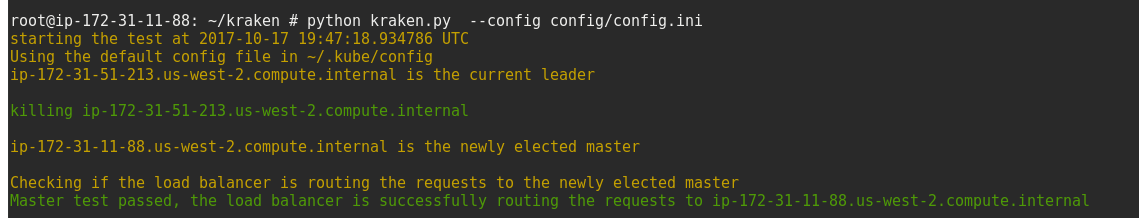
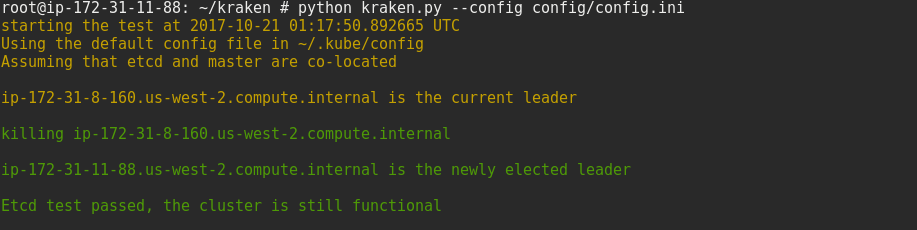
Add sample runs for etcd failure, master_failure

Changed region(s): [[0.0, 0.0, 0.9771, 1.0]]

diff --git a/kraken.py b/kraken.py
@@ -72,8 +72,8 @@ def check_master(picked_node, master_label, label):
     for data in ret.items:
         master_nodes.append(data.metadata.name)
     if picked_node in master_nodes:
-        node = get_random_node(label)
-        check_master(node, master_label, label)
+        picked_node = get_random_node(label)
+        check_master(picked_node, master_label, label)
     return picked_node
 
 def get_random_node(label):
@@ -150,7 +150,8 @@ def etcd_test(label, master_label):
     leader_node = get_leader(master_label, "undefined")
     print (Fore.YELLOW + '%s is the current leader\n') %(leader_node)
     print (Fore.GREEN + 'killing %s\n') %(leader_node)
-    cmd = "pkill etcd"
+    #cmd = "pkill etcd"
+    cmd = "systemctl stop etcd"
     subprocess.Popen(["ssh", "%s" % leader_node, cmd],
                        shell=False,
                        stdout=subprocess.PIPE,
@@ -167,7 +168,7 @@ def etcd_test(label, master_label):
     except:
         print (Fore.GREEN + 'requests not processed\n')
         sys.exit(1)
-    print (Fore.GREEN + 'Etcd test passed, the cluster is still functional%s\n') %(new_leader)
+    print (Fore.GREEN + 'Etcd test passed, the cluster is still functional')
 
 def node_crash(label, master_label):
     # leave master node out
@@ -180,7 +181,7 @@ def node_crash(label, master_label):
     print (Fore.YELLOW + 'There are %s pods running on the cluster before deleting the node and %s pods running on the node picked to be deleted from the cluster\n') %(pod_count_before, pod_count_node)
     # delete a node
     print (Fore.GREEN + 'crashing %s\n') %(random_node)
-    cmd = "echo "c" > /proc/sysrq-trigger"
+    cmd = "echo c > /proc/sysrq-trigger"
     subprocess.Popen(["ssh", "%s" % random_node, cmd],
                        shell=False,
                        stdout=subprocess.PIPE,
@@ -192,7 +193,7 @@ def node_crash(label, master_label):
     # check if the pods have been rescheduled
     while True:
         print (Fore.YELLOW + 'Checking if the pods have been rescheduled\n')
-        print (Fore.YELLOW + 'It is expected to take more than 5 min for the pods to get rescheduled during a node crash, node controller waits for 5 min before terminating the pods that are bound to the unavailbel node') 
+        print (Fore.YELLOW + 'It is expected to take more than 5 min for the pods to get rescheduled during a node crash, node controller waits for 5 min before terminating the pods that are bound to the unavailable node\n') 
         time.sleep(sleep_counter)
         status = check_count(pod_count_before, pod_count_after)
         if status:
@@ -207,7 +208,7 @@ def node_crash(label, master_label):
 
 def master_test(label, master_label):
     # pick random node to kill
-    master_node = get_random(master_label)
+    master_node = get_random_node(master_label)
     print (Fore.GREEN + 'killing %s\n') %(master_node)
     cmd = "systemctl stop atomic-openshift-master-controllers.service"
     subprocess.Popen(["ssh", "%s" % master_node, cmd],
@@ -215,13 +216,13 @@ def master_test(label, master_label):
                        stdout=subprocess.PIPE,
                        stderr=subprocess.PIPE)
     ## check if the load balancer is routing the requests to the newly elected master
-    print (Fore.YELLOW + 'Checking if the load balancer is routing the requests to the newly elected master')
+    print (Fore.YELLOW + 'Checking if the load balancer is routing the requests to the newly elected master\n')
     try:
         get_random_node(master_label)
     except:
         print (Fore.RED + 'Failed to ping apiserver, looks like the openshift cluster has not recovered after deleting the master\n')
         sys.exit(1)
-    print (Fore.GREEN + 'Master test passed, the load balancer is successfully routing the requests to %s\n') %(new_leader)
+    print (Fore.GREEN + 'Master test passed, the load balancer is successfully routing the requests\n')
 
 def main(cfg):
     #parse config
@@ -241,6 +242,11 @@ def main(cfg):
             node_crash(label, master_label)
         elif test_name == "kill_master":
             master_test(label, master_label)
+        elif test_name == "kill_etcd":
+            etcd_test(label, master_label)
+        else:
+            print (Fore.RED + '%s is not a valid scenario, please choose from kill_node, crash_node, kill_etcd, kill_master') %(test_name)
+            sys.exit(1)
     else:
         help()
         sys.exit(1)

diff --git a/README.md b/README.md
@@ -44,6 +44,7 @@ master_label: node_type=master
 label: type=kraken
 test_type: kill_node
 test_type: crash_node
+test_type : kill_etcd
 test_type: kill_master
 ```
 
@@ -52,4 +53,10 @@ test_type: kill_master
 $ python kraken.py --config config/config.ini  
 ```
 ## Node is offline
-![Alt text](node_offline.png)
+![Alt text](kill_node.png)
+
+## Etcd is killed
+![Alt text](kill_etcd.png)
+
+## Master is killed
+![Alt text](kill_master.png)
